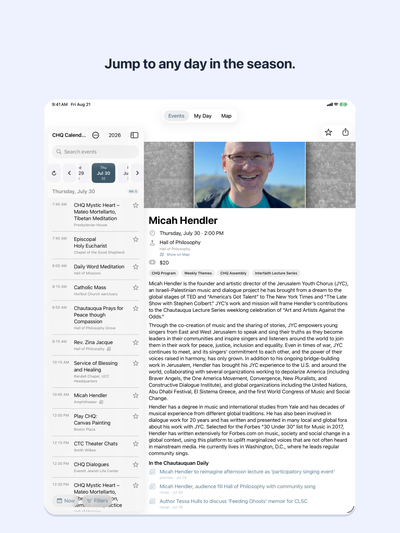
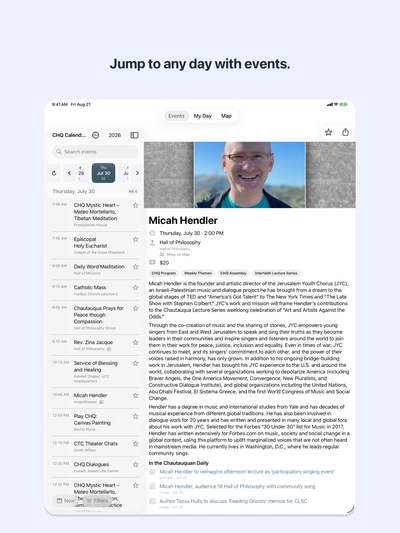
fix(ios): correct App Store copy over three real behavior gaps
Copilot's PR #255 review called these "minor documentation nits," but
each corrects a claim that's false against the source:

1. whatsNew/RELEASE_CHECKLIST described the day-rail chevrons as ±1
   calendar day. DayRailNavigation.stepTargets walks eventDays and
   steps to the nearest day *with events*, skipping empty stretches
   (pinned by aStepSkipsDaysWithNothingToShow) — reworded to describe
   stepping to the next day with events.
2. whatsNew/description/promotionalText/the 01-season screenshot
   caption implied every day is tappable on the Events rail.
   EventListView passes disablesEmptyDays: true and DayRailView
   renders those chips as plain, non-tappable views (My Day's stay
   tappable by design, #192) — qualified all four to "any day with
   events," and kept the empty-day-count bullet but rewrote it around
   visibility rather than tappability.
3. whatsNew/RELEASE_CHECKLIST claimed Siri and the rail land in
   exactly the same place unconditionally. OpenDayTarget resolves its
   year from IntentDataSource.defaultYear() while AppModel.goToDay
   bounds against selectedYear, so an archived-year reader hears a
   successful dialog and nothing moves — a filed, open bug (#253).
   Qualified both strings to "within the current season."

Also: the universal-links spec claimed "1.1.3 shipped without it,"
which is false during release prep (nothing has shipped yet) —
reworded to state the deferral without asserting a shipping event.
[…]

Changed region(s): [[0.27, 0.0901, 0.75, 0.1501]]

diff --git a/docs/app-store/RELEASE_CHECKLIST.md b/docs/app-store/RELEASE_CHECKLIST.md
@@ -272,8 +272,9 @@ Folded into 1.1.3: the day rail, which the Events tab and My Day share only
 partly — both show a `DayRailView` strip with a per-day event count so an
 empty day is visible before you tap it (`MyDayChipContent`, genuinely
 shared), but the surrounding controls differ. Only the **Events tab** got
-the `⟳ Now` button and the ±1-day step chevrons (`DayStepControl`), and only
-the Events tab's list auto-grows forward at its end (`EventListView`'s
+the `⟳ Now` button and the step-to-next-event-day chevrons (`DayStepControl`,
+which skip past days with nothing to show rather than moving one calendar
+day), and only the Events tab's list auto-grows forward at its end (`EventListView`'s
 last-row `.onAppear` calling `expandWindowEnd()` — there is no
 `expandWindowStart`; going back stays an explicit chevron or rail-chip tap).
 **My Day** instead kept its own,
@@ -284,8 +285,12 @@ rather than growing automatically as the reader scrolls. `whatsNew`'s "A DAY
 AT A TIME" bullets describe the Events tab specifically, not My Day — do not
 generalize them to "the app" when drafting the next version's notes. Siri
 routing through `OpenDayIntent` and the same `chqcal://day/<key>` path the
-rail itself consumes, so "Show me tomorrow in Chautauqua" and a tap on
-tomorrow's chip land in identical state; and the accessibility fix that
+rail itself consumes, so within the current season "Show me tomorrow in
+Chautauqua" and a tap on tomorrow's chip land in identical state — browsing
+an archived year is a known gap (issue #253: the intent resolves its year
+from `IntentDataSource.defaultYear()` while `AppModel.goToDay` bounds
+against `selectedYear`, so the dialog can speak success while nothing
+moves); and the accessibility fix that
 stopped the `Filters` pill from clipping its label at the largest text
 sizes — both Events-tab-specific. **This is a first pass, not the final
 submission artifact — further features may land before submission**, in

diff --git a/docs/superpowers/specs/2026-08-15-cross-platform-date-navigation-design.md b/docs/superpowers/specs/2026-08-15-cross-platform-date-navigation-design.md
@@ -22,7 +22,7 @@ below for what that guarantees. Part 2 was release prep, done on
 `chore/ios-1.1.3-release-prep`: the 1.1.3 version sweep (`76a8ce2`, every
 target including both test bundles now at 1.1.3, app and widgets at build 6
 — `ChqCalendarUITests` previously had neither version key at all; verified
-by a full suite run, 882 unit + 21 UI tests green); listing copy and this
+by a full suite run, 884 unit + 21 UI tests green); listing copy and this
 spec's own phase-4 amendment (`7321117`); the lead screenshot (`01-season`)
 reworked into a day-navigation shot with its clock pinned (`64ef74b`) — it
 had been the last shot still capturing live production data with no

diff --git a/docs/superpowers/specs/2026-08-14-universal-links-design.md b/docs/superpowers/specs/2026-08-14-universal-links-design.md
@@ -116,7 +116,7 @@ static page nobody links to.
 | Which paths the app claims | All public paths, excluding `/admin/*`, `/publish/*`, `/.well-known/*` |
 | Claimed URL the app can't render | Open it in an in-app `SFSafariViewController` |
 | Smart App Banner vs the custom banner | Ship the meta tag; suppress the custom banner in iOS Safari only |
-| Release | Deferred — see "Status" above and "Why we deferred" below; not targeted at any version. 1.1.3 shipped without it. |
+| Release | Deferred — see "Status" above and "Why we deferred" below; not targeted at any version. |
 
 ## Architecture
 
